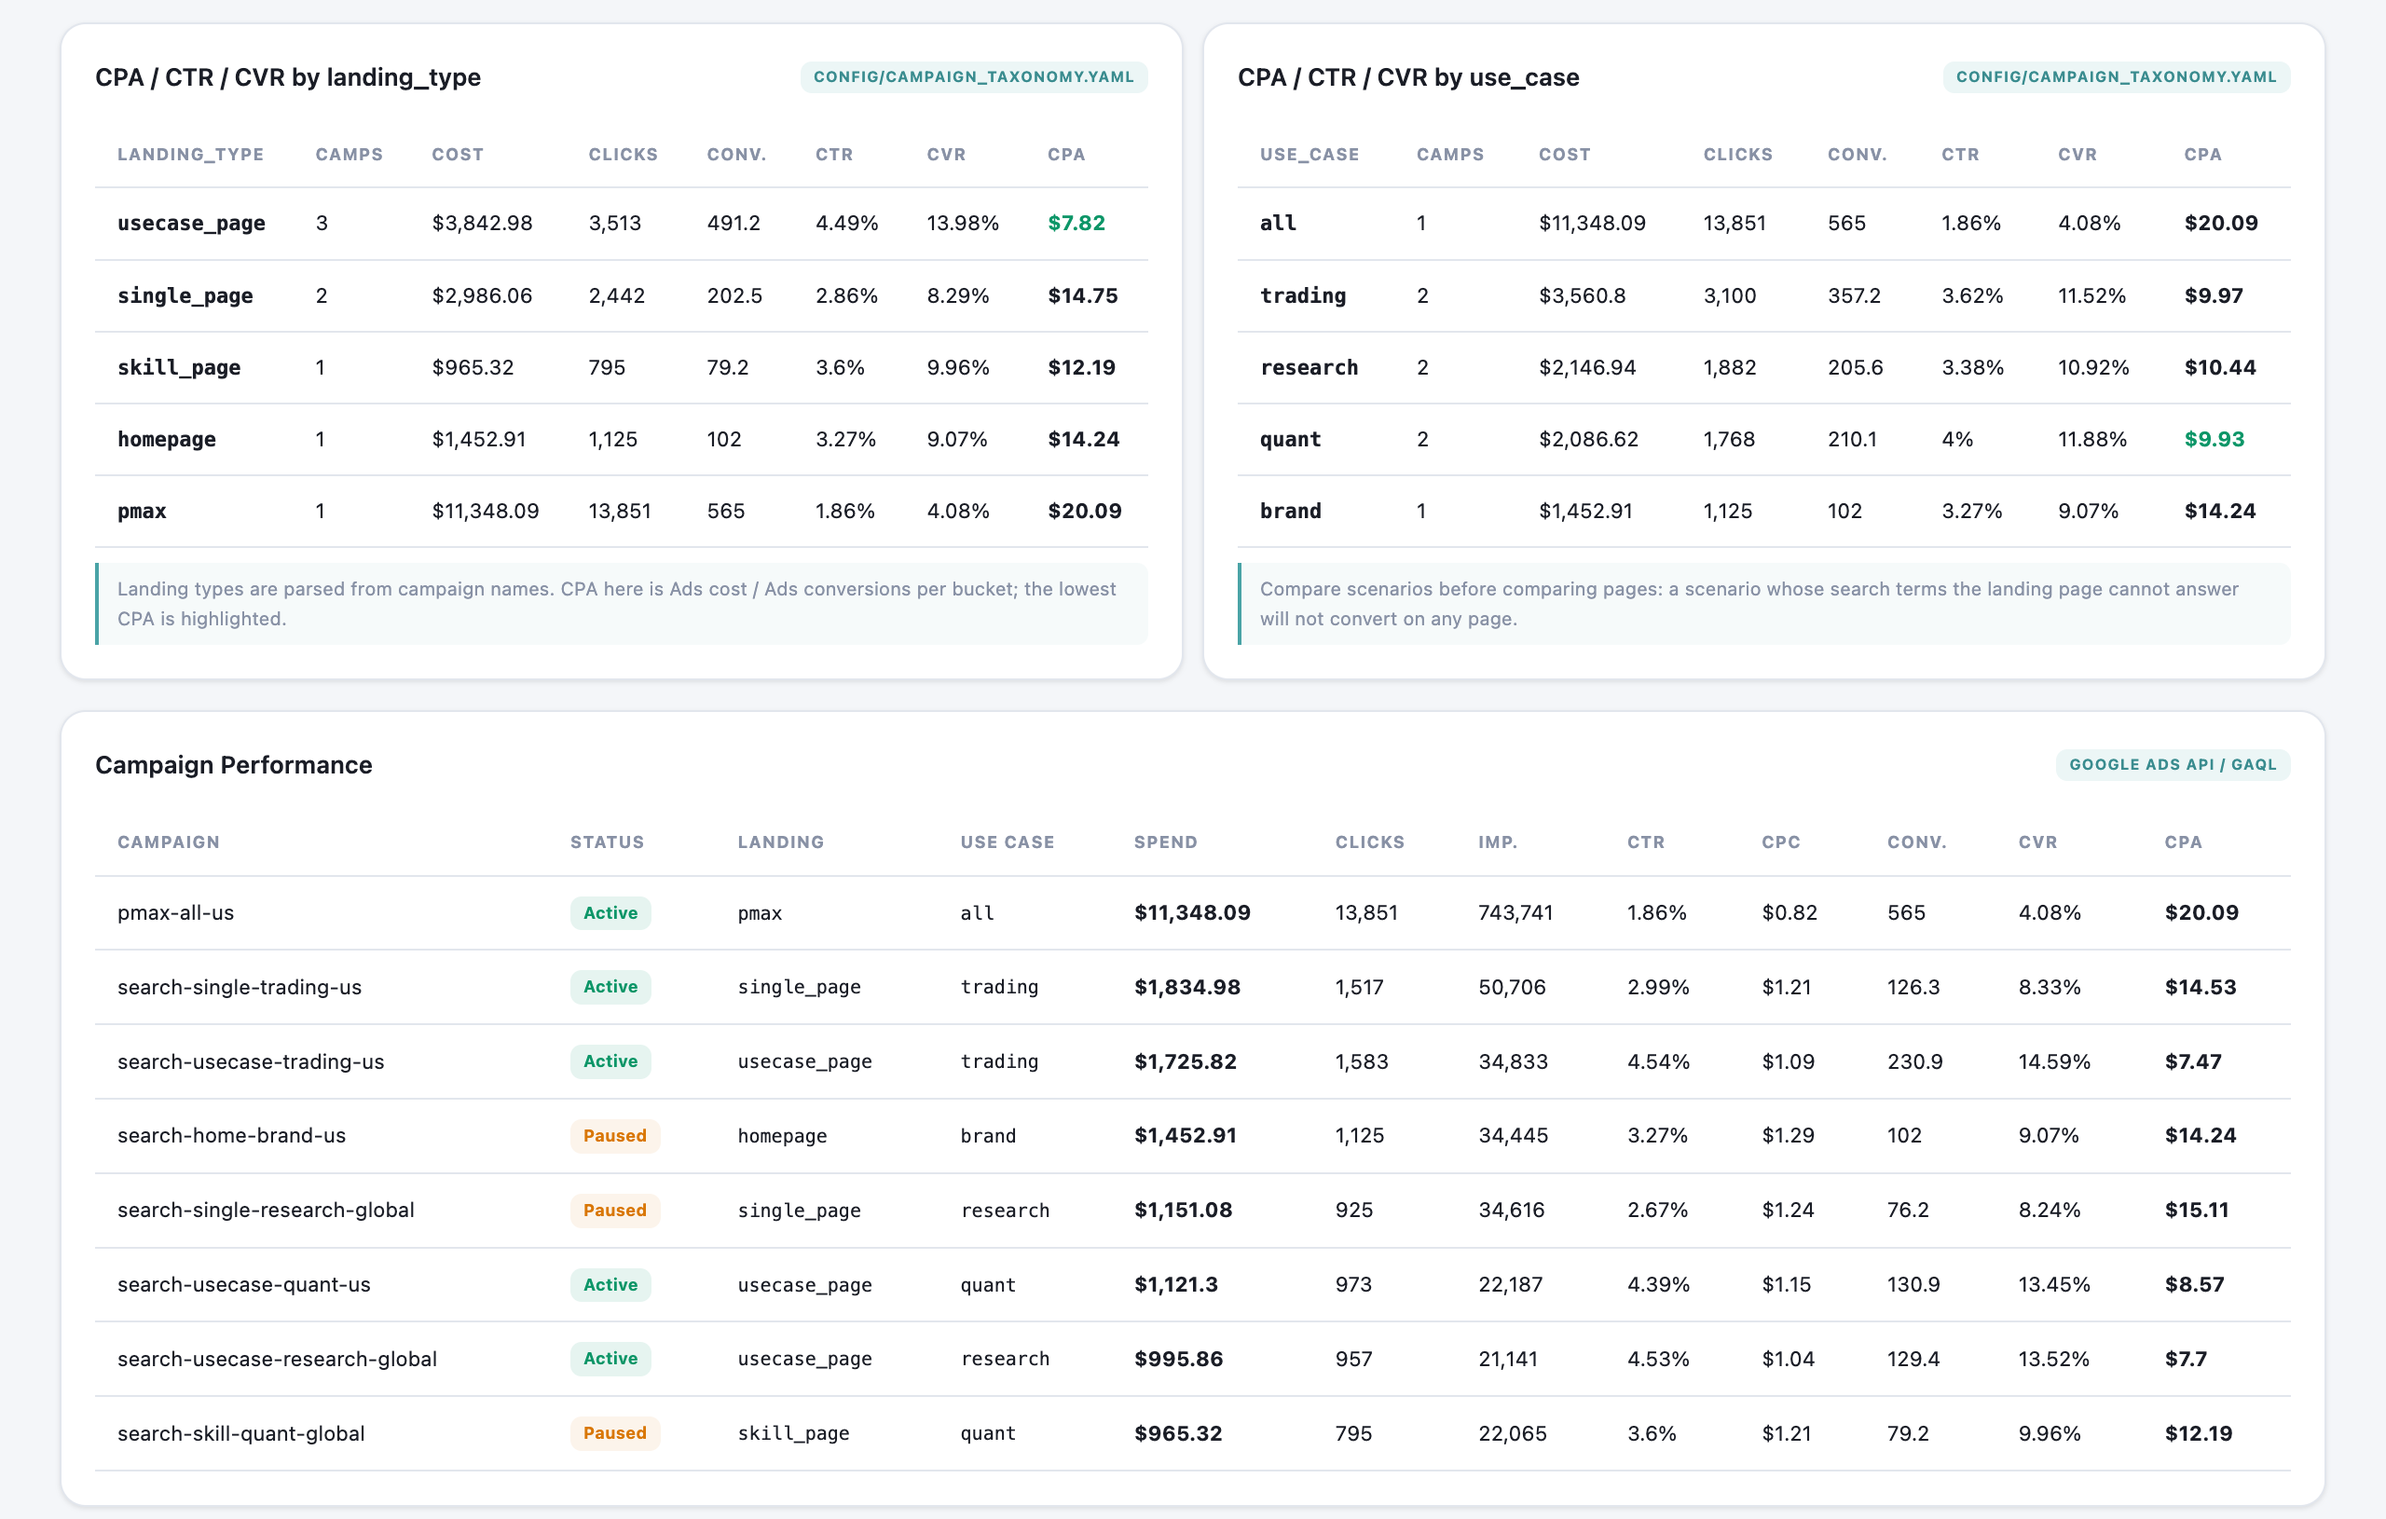
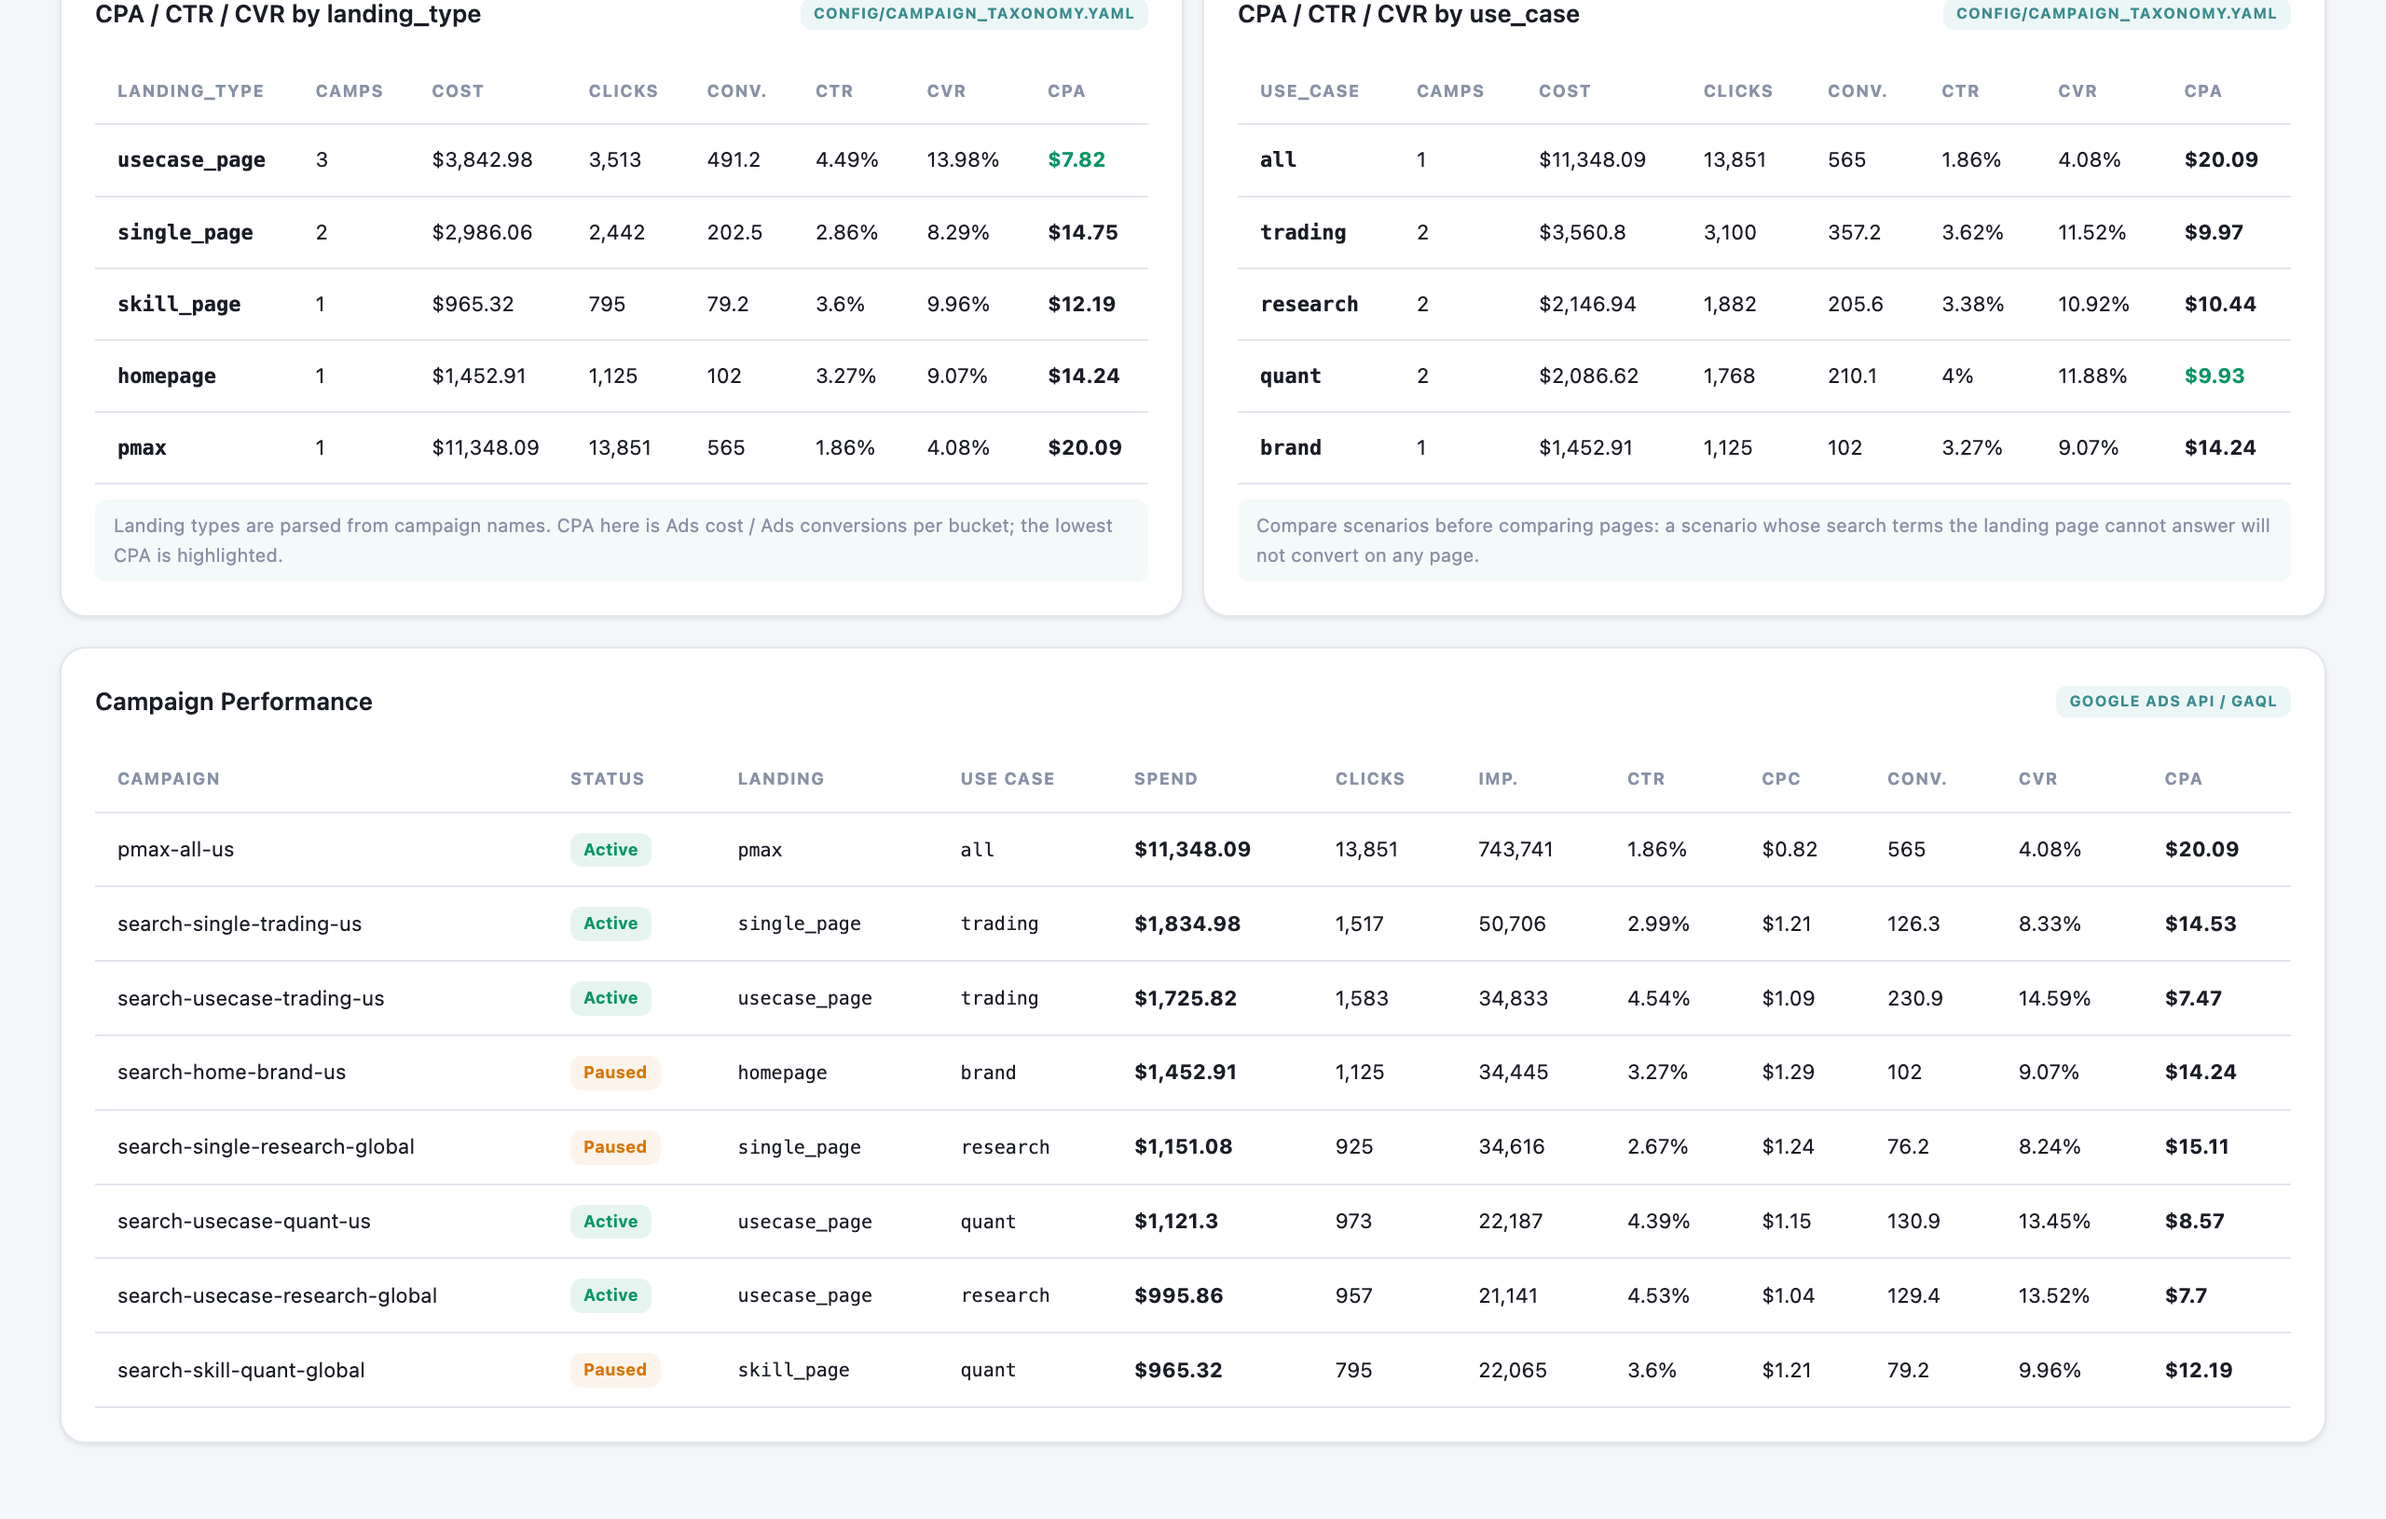
README: move 'Connecting real data' after design decisions; dashboard notes without left border

diff --git a/dashboard/index.html b/dashboard/index.html
@@ -100,7 +100,7 @@
   .fn-arr .cv.g { background:var(--green-d); color:var(--green); }
   .fn-arr .cv.w { background:var(--orange-d); color:var(--orange); }
   .fn-arr .cv.b { background:var(--red-d); color:var(--red); }
-  .fn-note { font-size:10px; color:var(--text3); margin-top:8px; padding:6px 10px; border-left:2px solid var(--accent); background:rgba(73,163,166,.05); border-radius:0 6px 6px 0; }
+  .fn-note { font-size:10px; color:var(--text3); margin-top:8px; padding:6px 10px; background:rgba(73,163,166,.06); border-radius:6px; }
   .info-tip { position:relative; display:inline-flex; align-items:center; margin-left:6px; cursor:help; }
   .info-tip .info-icon { width:16px;height:16px;border-radius:50%;background:var(--orange-d);color:var(--orange);font-size:10px;font-weight:800;display:flex;align-items:center;justify-content:center;line-height:1; }
   .info-tip .info-icon.ok { background:var(--green-d); color:var(--green); }

diff --git a/README.md b/README.md
@@ -74,39 +74,6 @@ python3 -m http.server 8787 -d dashboard
 when it does not exist. `python3 scripts/make_sample_data.py` regenerates the
 sample and the example export from a fixed seed.
 
-### Connecting real data
-
-1. `python3 -m venv .venv && source .venv/bin/activate && pip install -r requirements.txt`
-2. **GA4**: create a service account in Google Cloud Console, enable the
-   Google Analytics Data API, add the service account email as *Viewer* under
-   GA4 → Admin → Property access management, save the key as
-   `credentials/ga4-service-account.json` (git-ignored).
-3. **Google Ads**: get a developer token (Google Ads → Tools → API Center),
-   create an OAuth client of type *Desktop app*, put client id / secret in
-   `.env`, run `python3 scripts/get_refresh_token.py` and paste the refresh
-   token into `.env`. Set `GOOGLE_ADS_LOGIN_CUSTOMER_ID` only if the account is
-   reached through a manager account.
-4. `cp .env.example .env` and fill in the placeholders. Set
-   `REPORT_TZ_OFFSET_HOURS` to the timezone of your GA4 property and Ads
-   account (see the timezone note below).
-5. Edit `config/campaign_taxonomy.yaml` so the regexes describe your campaign
-   names, and `config/tracking_plan.yaml` so it lists your events.
-6. Run once: `./refresh.sh` (full pipeline with lock, backup, validation,
-   logs to `logs/refresh.log`) or `python3 scripts/run_all.py` (Python only).
-7. Schedule (macOS): `./install.sh` hardens credential permissions, fills the
-   project path into `com.example.dashboard-refresh.plist`, installs it under
-   `~/Library/LaunchAgents/` and loads it. Default 09:00 and 14:00 local time.
-
-```bash
-launchctl start com.example.dashboard-refresh          # trigger now
-tail -f logs/refresh.log                                 # logs
-cat .health | python3 -m json.tool                       # last successful run
-launchctl unload ~/Library/LaunchAgents/com.example.dashboard-refresh.plist   # uninstall
-```
-
-Never commit `.env`, `credentials/`, `data/`, `backups/`, `logs/` or
-`dashboard/data.json`; all of them are in `.gitignore`.
-
 ## How it works
 
 ```
@@ -154,6 +121,39 @@ I did not build this dashboard to have one more chart page. I built it so that e
 **Decision flow.** Every change walks the same path: find something in the data that does not add up (the search terms are all trading and quant while the landing page cannot speak to either), state a hypothesis, verify with a small budget (in the order of $100 a day) that the conversion event really arrives, compare several landing strategies, stop what does not work, add budget to what does. Pausing is not scary; the learning-phase data is still there. Burning money with the wrong landing page and the wrong keywords is.
 
 **Working with the agency.** The agency owns the foundations: account structure, keyword expansion, bidding. I own the landing pages, the keyword direction and the definition of the conversion goal, with a fixed weekly review: cost, conversions, trend of the core events, search terms, landing page status, next budget moves. The service fee and the monthly fee structure were negotiated too, not accepted by default.
+
+## Connecting real data
+
+1. `python3 -m venv .venv && source .venv/bin/activate && pip install -r requirements.txt`
+2. **GA4**: create a service account in Google Cloud Console, enable the
+   Google Analytics Data API, add the service account email as *Viewer* under
+   GA4 → Admin → Property access management, save the key as
+   `credentials/ga4-service-account.json` (git-ignored).
+3. **Google Ads**: get a developer token (Google Ads → Tools → API Center),
+   create an OAuth client of type *Desktop app*, put client id / secret in
+   `.env`, run `python3 scripts/get_refresh_token.py` and paste the refresh
+   token into `.env`. Set `GOOGLE_ADS_LOGIN_CUSTOMER_ID` only if the account is
+   reached through a manager account.
+4. `cp .env.example .env` and fill in the placeholders. Set
+   `REPORT_TZ_OFFSET_HOURS` to the timezone of your GA4 property and Ads
+   account (see the timezone note below).
+5. Edit `config/campaign_taxonomy.yaml` so the regexes describe your campaign
+   names, and `config/tracking_plan.yaml` so it lists your events.
+6. Run once: `./refresh.sh` (full pipeline with lock, backup, validation,
+   logs to `logs/refresh.log`) or `python3 scripts/run_all.py` (Python only).
+7. Schedule (macOS): `./install.sh` hardens credential permissions, fills the
+   project path into `com.example.dashboard-refresh.plist`, installs it under
+   `~/Library/LaunchAgents/` and loads it. Default 09:00 and 14:00 local time.
+
+```bash
+launchctl start com.example.dashboard-refresh          # trigger now
+tail -f logs/refresh.log                                 # logs
+cat .health | python3 -m json.tool                       # last successful run
+launchctl unload ~/Library/LaunchAgents/com.example.dashboard-refresh.plist   # uninstall
+```
+
+Never commit `.env`, `credentials/`, `data/`, `backups/`, `logs/` or
+`dashboard/data.json`; all of them are in `.gitignore`.
 
 ## Data flow and dashboard definitions
 

diff --git a/README.zh.md b/README.zh.md
@@ -69,25 +69,6 @@ python3 -m http.server 8787 -d dashboard
 
 `dashboard/index.html` 读取 `data.json`，不存在时回退到 `data.sample.json`。`python3 scripts/make_sample_data.py` 用固定种子重新生成示例数据和示例导出。
 
-### 接真实数据
-
-1. `python3 -m venv .venv && source .venv/bin/activate && pip install -r requirements.txt`
-2. **GA4**：在 Google Cloud Console 创建 service account，启用 Google Analytics Data API，在 GA4 → 管理 → 属性访问权限管理中把 service account 邮箱加为 *Viewer*，把 key 存到 `credentials/ga4-service-account.json`（已在 `.gitignore`）。
-3. **Google Ads**：申请 developer token（Google Ads → 工具 → API 中心），创建 *Desktop app* 类型的 OAuth client，把 client id / secret 填进 `.env`，运行 `python3 scripts/get_refresh_token.py`，把打印出的 refresh token 填进 `.env`。只有通过经理账户（MCC）访问时才需要设置 `GOOGLE_ADS_LOGIN_CUSTOMER_ID`。
-4. `cp .env.example .env` 并填好占位符。`REPORT_TZ_OFFSET_HOURS` 设成 GA4 资产和 Ads 账户的时区偏移（见下文时区说明）。
-5. 改 `config/campaign_taxonomy.yaml`，让正则能描述你的 campaign 命名；改 `config/tracking_plan.yaml`，列出你的事件。
-6. 跑一次：`./refresh.sh`（完整流水线，带锁、备份、校验，日志在 `logs/refresh.log`）或 `python3 scripts/run_all.py`（纯 Python）。
-7. 定时（macOS）：`./install.sh` 会收紧凭证文件权限，把项目路径替换进 `com.example.dashboard-refresh.plist`，装到 `~/Library/LaunchAgents/` 并加载。默认本地时间 09:00 和 14:00。
-
-```bash
-launchctl start com.example.dashboard-refresh          # 立即触发
-tail -f logs/refresh.log                                 # 日志
-cat .health | python3 -m json.tool                       # 上次成功运行
-launchctl unload ~/Library/LaunchAgents/com.example.dashboard-refresh.plist   # 卸载
-```
-
-`.env`、`credentials/`、`data/`、`backups/`、`logs/`、`dashboard/data.json` 都在 `.gitignore` 里，不要提交。
-
 ## 它怎么工作
 
 ```
@@ -135,6 +116,25 @@ launchd (本地时间 09:00 / 14:00)
 **决策流程。** 每个改动都走同一条路：先在数据里找到不对劲（比如搜索词全是交易和量化，落地页却讲不了这些），提出假设，用小预算（每天 100 美元量级）验证转化事件真实回传，对照几种承接方式，效果不好的直接关停，好的再加预算。停投不可怕，学习期数据还在；可怕的是带着错误的落地页和关键词继续烧钱。
 
 **和代理怎么分工。** 代理负责账户结构、扩词、出价这些基础搭建，我负责承接页、关键词方向和转化目标定义，每周固定复盘：成本、转化、核心事件趋势、搜索词、承接页状态、下一步预算。服务费和月费结构也是谈出来的，不是默认接受。
+
+## 接真实数据
+
+1. `python3 -m venv .venv && source .venv/bin/activate && pip install -r requirements.txt`
+2. **GA4**：在 Google Cloud Console 创建 service account，启用 Google Analytics Data API，在 GA4 → 管理 → 属性访问权限管理中把 service account 邮箱加为 *Viewer*，把 key 存到 `credentials/ga4-service-account.json`（已在 `.gitignore`）。
+3. **Google Ads**：申请 developer token（Google Ads → 工具 → API 中心），创建 *Desktop app* 类型的 OAuth client，把 client id / secret 填进 `.env`，运行 `python3 scripts/get_refresh_token.py`，把打印出的 refresh token 填进 `.env`。只有通过经理账户（MCC）访问时才需要设置 `GOOGLE_ADS_LOGIN_CUSTOMER_ID`。
+4. `cp .env.example .env` 并填好占位符。`REPORT_TZ_OFFSET_HOURS` 设成 GA4 资产和 Ads 账户的时区偏移（见下文时区说明）。
+5. 改 `config/campaign_taxonomy.yaml`，让正则能描述你的 campaign 命名；改 `config/tracking_plan.yaml`，列出你的事件。
+6. 跑一次：`./refresh.sh`（完整流水线，带锁、备份、校验，日志在 `logs/refresh.log`）或 `python3 scripts/run_all.py`（纯 Python）。
+7. 定时（macOS）：`./install.sh` 会收紧凭证文件权限，把项目路径替换进 `com.example.dashboard-refresh.plist`，装到 `~/Library/LaunchAgents/` 并加载。默认本地时间 09:00 和 14:00。
+
+```bash
+launchctl start com.example.dashboard-refresh          # 立即触发
+tail -f logs/refresh.log                                 # 日志
+cat .health | python3 -m json.tool                       # 上次成功运行
+launchctl unload ~/Library/LaunchAgents/com.example.dashboard-refresh.plist   # 卸载
+```
+
+`.env`、`credentials/`、`data/`、`backups/`、`logs/`、`dashboard/data.json` 都在 `.gitignore` 里，不要提交。
 
 ## 数据流与看板口径
 
